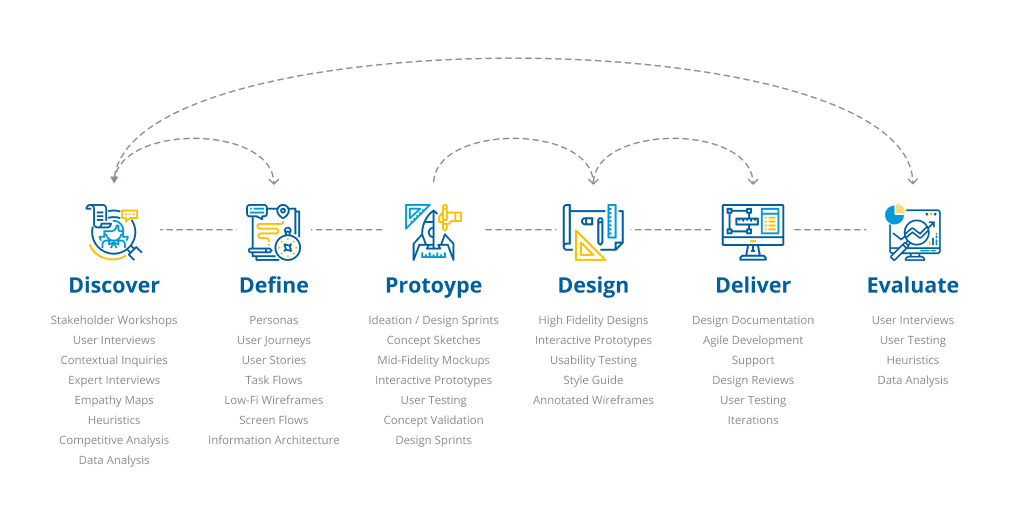
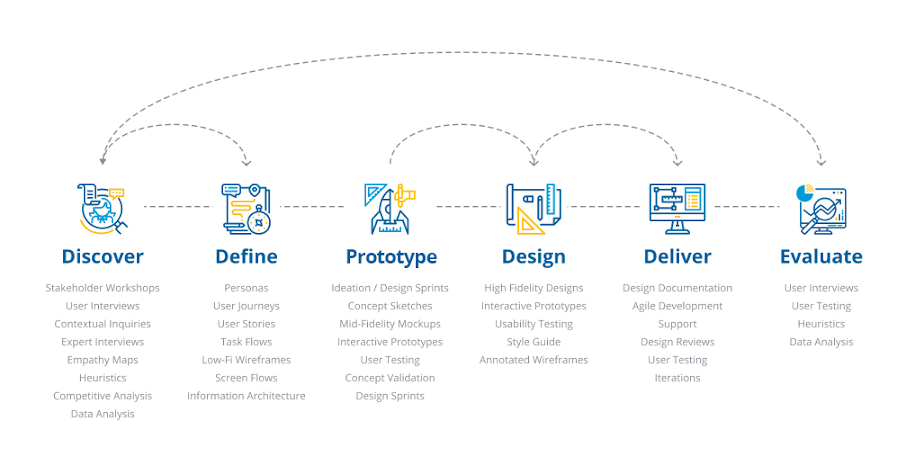
Fix typo in graphic and bg color

diff --git a/content/news/2021-11-10-dual-track-agile.md b/content/news/2021-11-10-dual-track-agile.md
@@ -5,7 +5,7 @@ description: "The art of fitting design into Agile development"
 image: "/img/blog/headers/2021-11-10-dual-track-agile.png"
 images:
   - /img/blog/headers/2021-11-10-dual-track-agile.png
-headerBgColor: "#ECD8EB"
+headerBgColor: "#F5C501"
 author: Kathy Davies
 blog: true
 layout: blog-post
